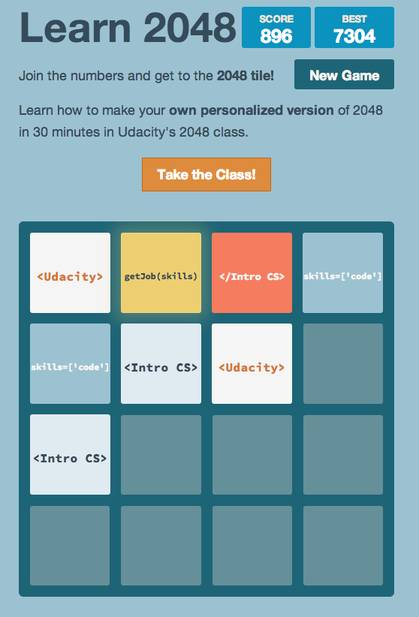
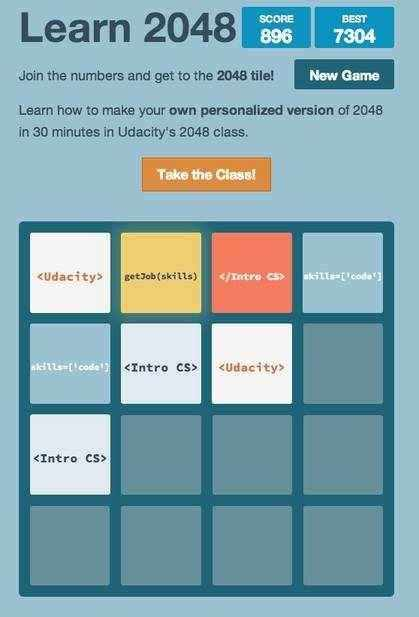
Optimization for images
Brought some of the optimizations from the gh-pages branch to the master
developer branch

diff --git a/html/2048.html b/html/2048.html
@@ -31,7 +31,7 @@
         </div>
 
         <div class="content">
-            <img class="img-responsive" src="http://cameronwp.github.io/udportfolio/img/2048.png" alt="Udacity 2048 Game Picture">
+            <img class="img-responsive" src="../img/2048_board.jpg" alt="Udacity 2048 Game Picture">
 
             <p>In this course we were given a version of the game to modify. The files had a lot of CSS and HTML, but the most important
             part was the logic embedded in the JavaScript files as should be expected.</p>

diff --git a/html/html5-game-development.html b/html/html5-game-development.html
@@ -36,7 +36,7 @@
 				a web application that is a game.
 			</p>
 			
-			<img src="../img/html5_game_development_team.png" alt="HTML5 Game Development course team">
+			<img src="../img/html5_game_development_team.jpg" alt="HTML5 Game Development course team">
 
             <p>
 				This course was a true challenge and I have yet completed it with all the merits and distinctions possible. Honestly, this course skips a lot
